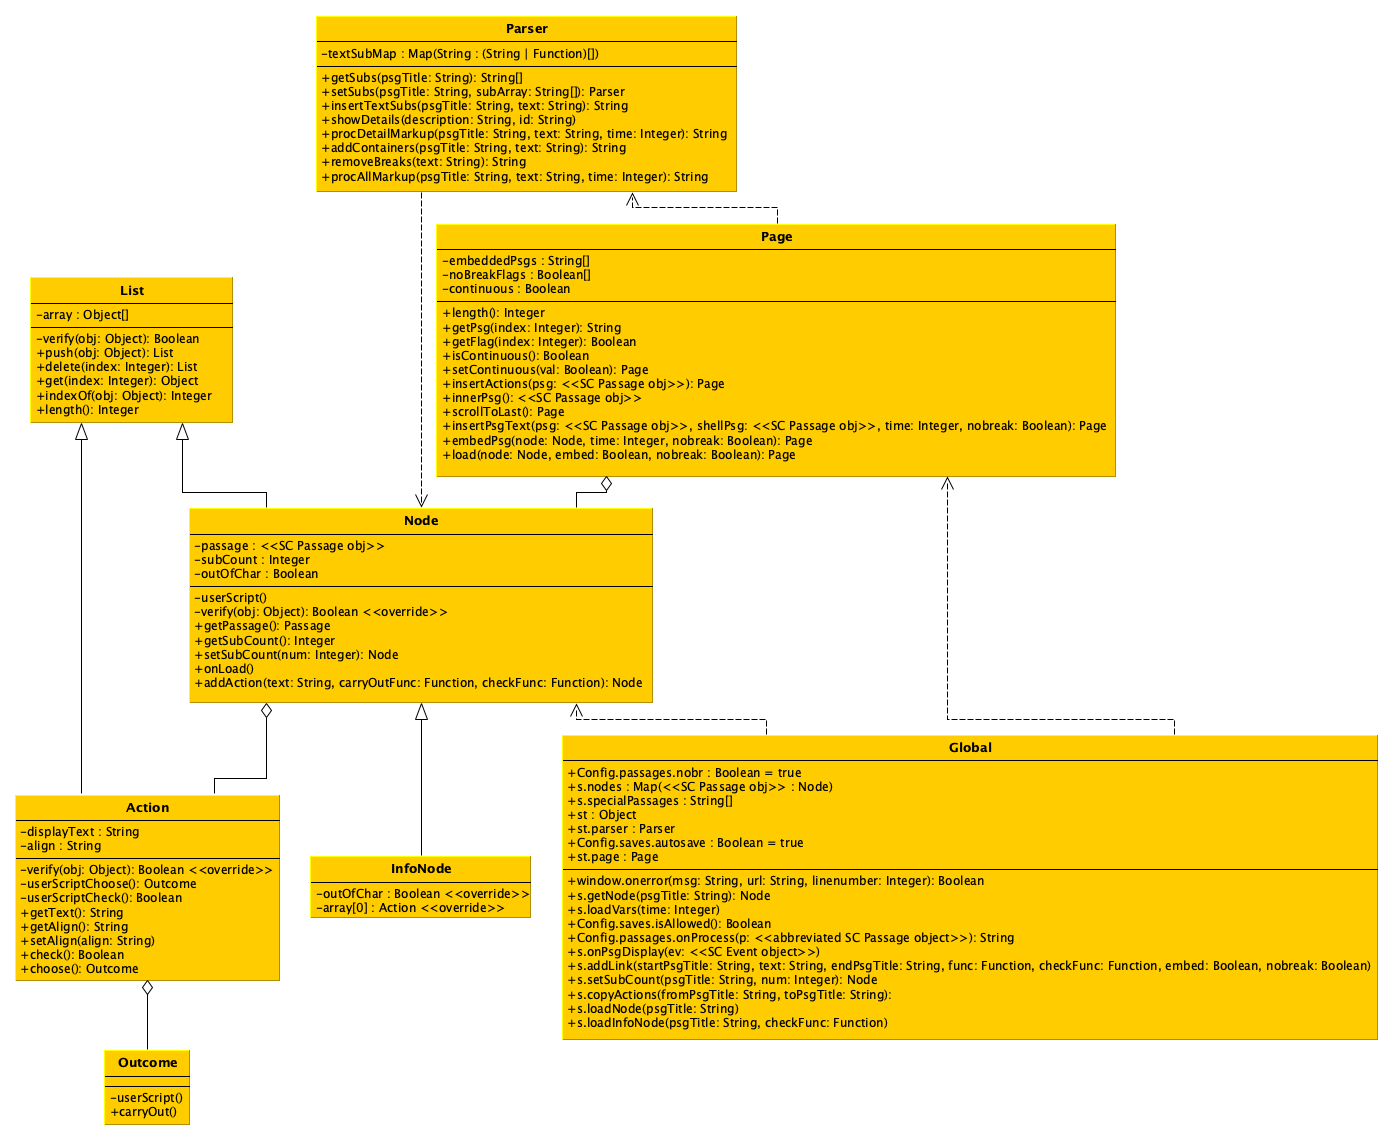
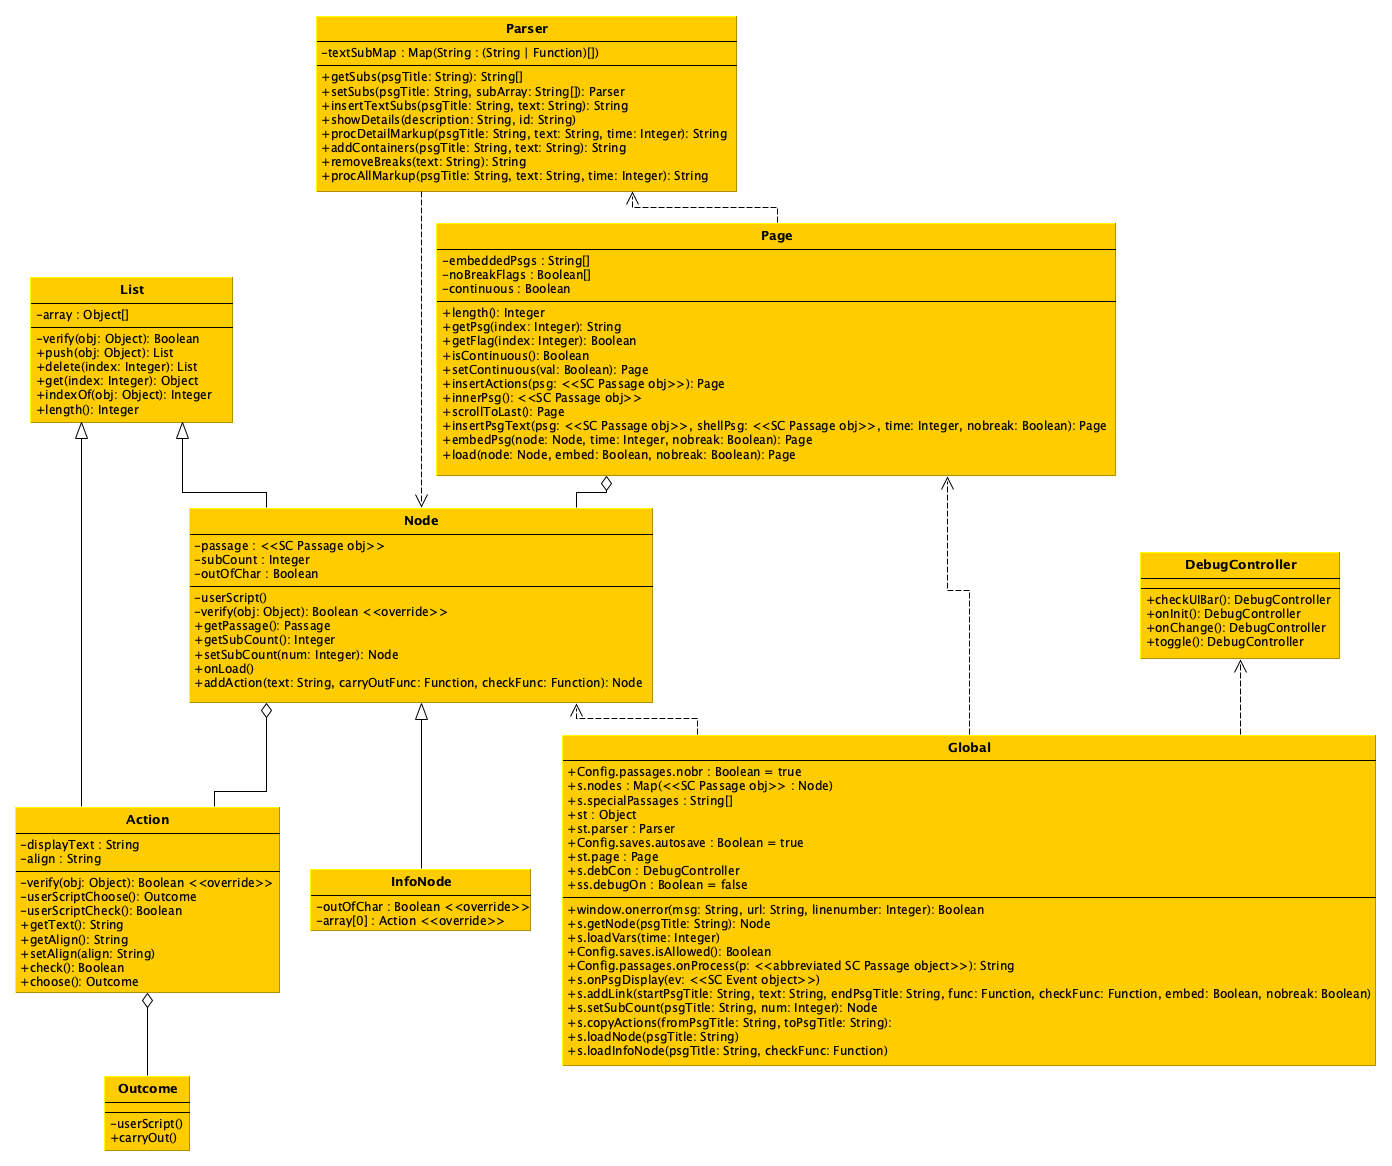
version 0.3.7
see change log

diff --git a/bear-fight.html b/bear-fight.html
@@ -517,7 +517,60 @@ Object.defineProperty(s.InfoNode.prototype, 'constructor', {
     enumerable: false,
     writable: true
 });
-/* twine-user-script #7: "0070-Parser_.js" */
+/* twine-user-script #7: "0065-DebugController.js" */
+s.DebugController = function() {
+    /*
+    The Debug Controller controls debug mode, a developer mode that can
+    be used to activate certain capabilities and functionalities not
+    present in ordinary gameplay. The state of debug mode is stored in
+    the boolean property `debugOn` in SugarCube's `settings` namespace,
+    which has `ss` as an alias.
+    */
+    return this;    
+};
+
+s.DebugController.prototype.checkUIBar = function() {
+    /*
+    By default, SugarCube's UI Bar is only visible during debug mode.
+    This method ensures that the UI Bar is in the correct state.
+    */
+    if (ss.debugOn) {
+      UIBar.unstow().show();
+    } else {
+      UIBar.hide().stow();
+    }
+    return this;
+}
+
+s.DebugController.prototype.onInit = function() {
+    /*
+    Runs on story initialization.
+    */
+    this.checkUIBar();
+    return;
+}
+
+s.DebugController.prototype.onChange = function() {
+    /*
+    Runs when the debug state changes. Refreshes the current passage in
+    order to display visible changes that might occur with the state
+    change.
+    */
+    this.checkUIBar();
+    Engine.show();
+    return;
+}
+
+s.DebugController.prototype.toggle = function() {
+    /*
+    Toggles the debug state.
+    */
+    ss.debugOn = !ss.debugOn;
+    Setting.save();
+    this.onChange();
+    return this;
+}
+/* twine-user-script #8: "0070-Parser_.js" */
 v.static = {};
 
 Object.defineProperty(window, "st", {
@@ -893,7 +946,7 @@ s.Parser.prototype.procAllMarkup = function(psgTitle, text, time) {
 
     return processedText;
 }
-/* twine-user-script #8: "0080-Page_.js" */
+/* twine-user-script #9: "0080-Page_.js" */
 st.parser = new s.Parser();
 
 /*
@@ -1127,7 +1180,20 @@ s.Page.prototype.load = function(node, embed, nobreak) {
         return this;
     }
 }
-/* twine-user-script #9: "6000-saving.js" */
+/* twine-user-script #10: "5000-debug.js" */
+s.debCon = new s.DebugController();
+
+Setting.addToggle('debugOn', {
+    /*
+    Adds the `debugOn` boolean variable to `settings` and adds a toggle
+    switch for it to the setting menu in the UI Bar. Binds the relevant
+    `debCon` methods to the UI toggle switch.
+    */
+    label:      'debug mode',
+    onInit:     s.debCon.onInit.bind(s.debCon),
+    onChange:   s.debCon.onChange.bind(s.debCon)
+});
+/* twine-user-script #11: "6000-saving.js" */
 Config.saves.autosave = true;
 
 Config.saves.isAllowed = function () {
@@ -1149,7 +1215,7 @@ $(window).bind('beforeunload pagehide',function(){
     */
     Engine.restart();
 });
-/* twine-user-script #10: "7000-rendering.js" */
+/* twine-user-script #12: "7000-rendering.js" */
 st.page = new s.Page();
 
 Config.passages.onProcess = function(p) {
@@ -1164,9 +1230,7 @@ Config.passages.onProcess = function(p) {
     }
 
     s.loadVars(-st.page.length());
-    var processedText = st.parser.procAllMarkup(
-        p.title, p.text
-    );
+    var processedText = st.parser.procAllMarkup(p.title, p.text);
     return processedText;
 };
 
@@ -1201,7 +1265,7 @@ s.onPsgDisplay = function(ev) {
 }
 
 $(document).on(':passagedisplay', s.onPsgDisplay);
-/* twine-user-script #11: "8000-functions.js" */
+/* twine-user-script #13: "8000-functions.js" */
 s.addLink = function(startPsgTitle, text, endPsgTitle,
                       func, checkFunc, embed, nobreak) {
     /*
@@ -1295,7 +1359,7 @@ s.loadInfoNode = function(psgTitle, checkFunc) {
         '"' + psgTitle + '" is not an info node'
     );
 }
-/* twine-user-script #12: "9000-main.js" */
+/* twine-user-script #14: "9000-main.js" */
 s.addLink('intro', 'continue', 'RNG warning');
 s.addLink('RNG warning', 'got it', 'who you are');
 s.addLink('who you are', 'take a look around', 'bedroom');
@@ -1334,7 +1398,7 @@ s.copyActions('bedroom', 'Taking knife');
 
 // Cops bust in actions
 s.addLink('Cops bust in', 'continue', 'Next');
-/* twine-user-script #13: "Story JavaScript" */
+/* twine-user-script #15: "Story JavaScript" */
 </script><tw-passagedata pid="1" name="StorySubtitle" tags="" position="100,100" size="100,100">Story Subtitle</tw-passagedata><tw-passagedata pid="2" name="StoryAuthor" tags="" position="225,100" size="100,100">Story Author</tw-passagedata><tw-passagedata pid="3" name="StoryDisplayTitle" tags="" position="350,100" size="100,100">Story Display Title</tw-passagedata><tw-passagedata pid="4" name="StoryBanner" tags="" position="475,100" size="100,100">Story Banner</tw-passagedata><tw-passagedata pid="5" name="StoryCaption" tags="" position="600,100" size="100,100">Story Caption</tw-passagedata><tw-passagedata pid="6" name="StoryMenu" tags="" position="725,100" size="100,100">&lt;&lt;link &#39;menu item 1&#39;&gt;&gt;&lt;&lt;/link&gt;&gt;
 &lt;&lt;link &#39;menu item 2&#39;&gt;&gt;&lt;&lt;/link&gt;&gt;</tw-passagedata><tw-passagedata pid="7" name="StoryInit" tags="" position="850,100" size="100,100">&lt;&lt;set $pounding = true&gt;&gt;
 &lt;&lt;set $crowbar = false&gt;&gt;
@@ -1350,10 +1414,15 @@ s.addLink('Cops bust in', 'continue', 'Next');
 &lt;&lt;set $inventory = new Set()&gt;&gt;</tw-passagedata><tw-passagedata pid="8" name="PassageHeader" tags="" position="975,100" size="100,100">&lt;&lt;if !tags().includes(&quot;no-header&quot;)&gt;&gt;
     &lt;&lt;link &#39;info&#39;&gt;&gt;
         &lt;&lt;run s.loadInfoNode(&#39;help&#39;)&gt;&gt;
-    &lt;&lt;/link&gt;&gt; /
-    &lt;&lt;link &#39;bio&#39;&gt;&gt;
+    &lt;&lt;/link&gt;&gt;
+    / &lt;&lt;link &#39;bio&#39;&gt;&gt;
         &lt;&lt;run s.loadInfoNode(&#39;bio&#39;)&gt;&gt;
     &lt;&lt;/link&gt;&gt;
+    &lt;&lt;if ss.debugOn&gt;&gt;
+        / &lt;&lt;link &#39;exit debug mode&#39;&gt;&gt;
+            &lt;&lt;run s.debCon.toggle()&gt;&gt;
+        &lt;&lt;/link&gt;&gt;
+    &lt;&lt;/if&gt;&gt;
     &lt;br&gt;&lt;hr&gt;
 &lt;&lt;/if&gt;&gt;</tw-passagedata><tw-passagedata pid="9" name="help" tags="" position="1100,100" size="100,100">&lt;p&gt;The story you are reading is a work of interactive fiction. In interactive fiction you play the main character of a story. Your actions drive the story forward.&lt;/p&gt;
 

diff --git a/src/javascript/0065-DebugController.js b/src/javascript/0065-DebugController.js
@@ -1,0 +1,52 @@
+s.DebugController = function() {
+    /*
+    The Debug Controller controls debug mode, a developer mode that can
+    be used to activate certain capabilities and functionalities not
+    present in ordinary gameplay. The state of debug mode is stored in
+    the boolean property `debugOn` in SugarCube's `settings` namespace,
+    which has `ss` as an alias.
+    */
+    return this;    
+};
+
+s.DebugController.prototype.checkUIBar = function() {
+    /*
+    By default, SugarCube's UI Bar is only visible during debug mode.
+    This method ensures that the UI Bar is in the correct state.
+    */
+    if (ss.debugOn) {
+      UIBar.unstow().show();
+    } else {
+      UIBar.hide().stow();
+    }
+    return this;
+}
+
+s.DebugController.prototype.onInit = function() {
+    /*
+    Runs on story initialization.
+    */
+    this.checkUIBar();
+    return;
+}
+
+s.DebugController.prototype.onChange = function() {
+    /*
+    Runs when the debug state changes. Refreshes the current passage in
+    order to display visible changes that might occur with the state
+    change.
+    */
+    this.checkUIBar();
+    Engine.show();
+    return;
+}
+
+s.DebugController.prototype.toggle = function() {
+    /*
+    Toggles the debug state.
+    */
+    ss.debugOn = !ss.debugOn;
+    Setting.save();
+    this.onChange();
+    return this;
+}

diff --git a/change-log.html b/change-log.html
@@ -265,6 +265,11 @@ pre[data-line] .line-highlight[data-end]:after {
       <div class="mume markdown-preview  ">
       <h1 class="mume-header" id="change-log">Change Log</h1>
 
+<h2 class="mume-header" id="version-037">Version 0.3.7</h2>
+
+<ul>
+<li>Added <code>DebugController</code>; built <code>s.deCon</code> instance and added <code>debugOn</code> to SC&apos;s <code>settings</code>.</li>
+</ul>
 <h2 class="mume-header" id="version-036">Version 0.3.6</h2>
 
 <ul>

diff --git a/src/javascript/5000-debug.js b/src/javascript/5000-debug.js
@@ -1,0 +1,12 @@
+s.debCon = new s.DebugController();
+
+Setting.addToggle('debugOn', {
+    /*
+    Adds the `debugOn` boolean variable to `settings` and adds a toggle
+    switch for it to the setting menu in the UI Bar. Binds the relevant
+    `debCon` methods to the UI toggle switch.
+    */
+    label:      'debug mode',
+    onInit:     s.debCon.onInit.bind(s.debCon),
+    onChange:   s.debCon.onChange.bind(s.debCon)
+});

diff --git a/src/javascript/7000-rendering.js b/src/javascript/7000-rendering.js
@@ -12,9 +12,7 @@ Config.passages.onProcess = function(p) {
     }
 
     s.loadVars(-st.page.length());
-    var processedText = st.parser.procAllMarkup(
-        p.title, p.text
-    );
+    var processedText = st.parser.procAllMarkup(p.title, p.text);
     return processedText;
 };
 

diff --git a/change-log.md b/change-log.md
@@ -4,6 +4,10 @@ title: Change Log
 
 # Change Log
 
+## Version 0.3.7
+
+* Added `DebugController`; built `s.deCon` instance and added `debugOn` to SC's `settings`.
+
 ## Version 0.3.6
 
 * Edited `s.setSubCount()` so it makes the node if no such node exists.
